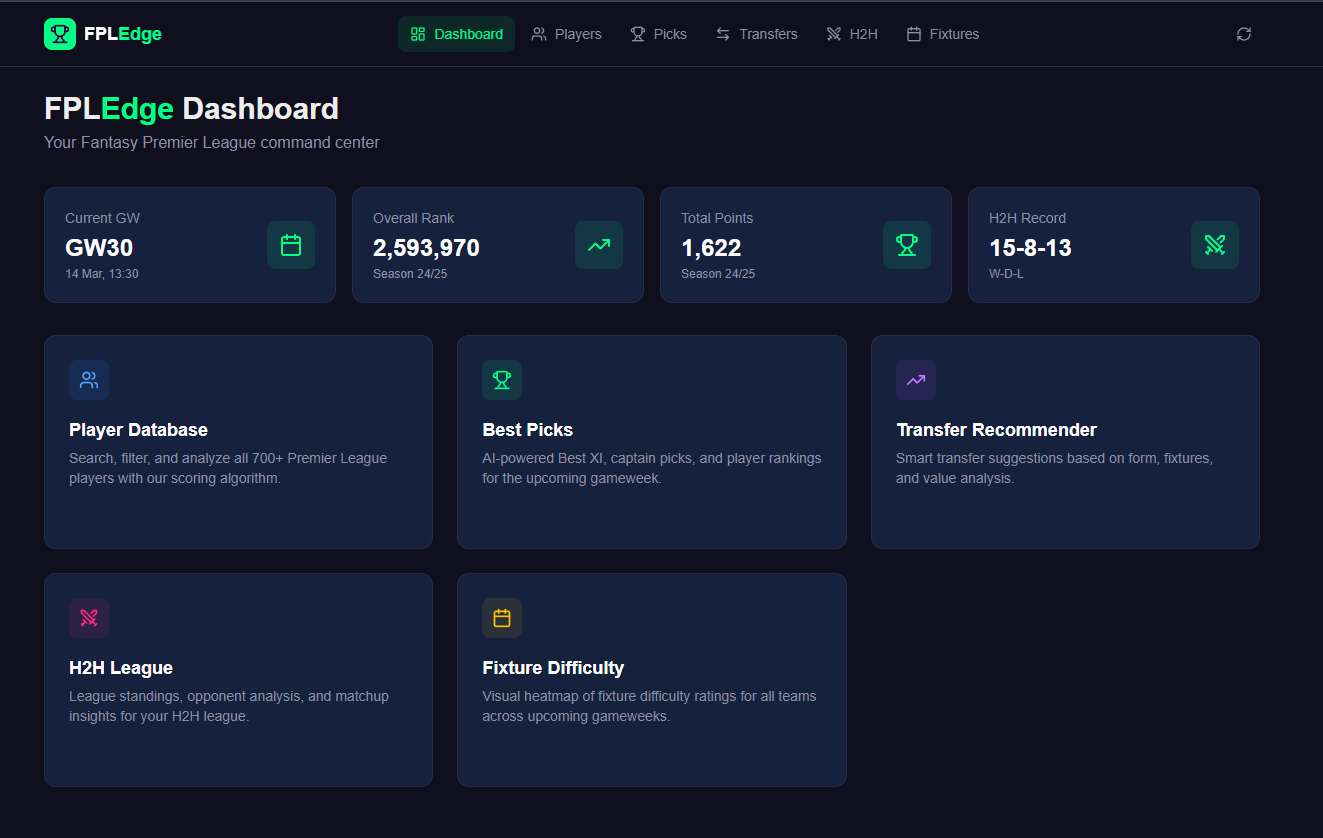
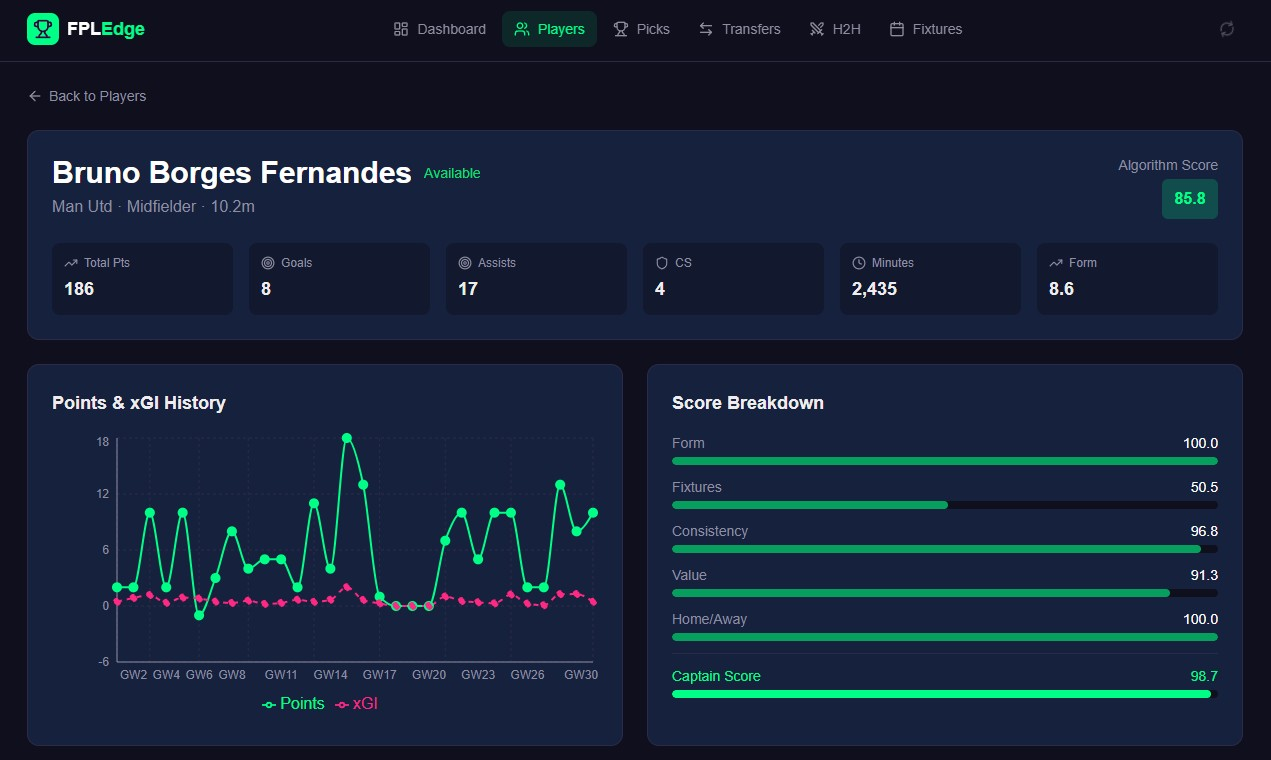
Content updates

diff --git a/pages/index.vue b/pages/index.vue
@@ -44,7 +44,7 @@
               </Button>
               <Button
                 variant="outline"
-                class="group border-border hover:bg-muted/50 font-body font-medium transition-all duration-300"
+                class="group border-border text-foreground hover:bg-muted/50 hover:text-foreground font-body font-medium transition-all duration-300"
                 as-child
               >
                 <NuxtLink to="/contact" class="flex items-center">
@@ -185,7 +185,7 @@
         <div class="flex justify-center mt-14">
           <Button
             variant="outline"
-            class="group border-border hover:bg-muted/50 font-body font-medium transition-all duration-300"
+            class="group border-border text-foreground hover:bg-muted/50 hover:text-foreground font-body font-medium transition-all duration-300"
             as-child
           >
             <NuxtLink to="/projects" class="flex items-center">
@@ -371,16 +371,6 @@ const featuredProjects = [
   },
   {
     id: 2,
-    title: 'Weatheroo',
-    description:
-      'A modern weather dashboard built with Nuxt 3 featuring interactive maps, geolocation services, real-time animations, and Redis-powered caching',
-    image: '/images/weatheroo.jpg',
-    tags: ['Nuxt 3', 'Tailwind', 'Redis', 'OpenWeather API'],
-    link: 'https://github.com/Vasilis-Rousis/weatheroo',
-    siteLink: 'https://weatheroo-three.vercel.app/',
-  },
-  {
-    id: 3,
     title: 'FPL Edge',
     description:
       'Fantasy Premier League analytics dashboard with algorithm-based player scoring, H2H insights, and transfer recommendations',
@@ -389,24 +379,34 @@ const featuredProjects = [
     link: 'https://github.com/Vasilis-Rousis/fpl-app',
     siteLink: 'https://fpl-app-five.vercel.app/',
   },
+  {
+    id: 3,
+    title: 'Weatheroo',
+    description:
+      'A modern weather dashboard built with Nuxt 3 featuring interactive maps, geolocation services, real-time animations, and Redis-powered caching',
+    image: '/images/weatheroo.jpg',
+    tags: ['Nuxt 3', 'Tailwind', 'Redis', 'OpenWeather API'],
+    link: 'https://github.com/Vasilis-Rousis/weatheroo',
+    siteLink: 'https://weatheroo-three.vercel.app/',
+  },
 ]
 
 // Skills with Icons
 const skillsWithIcons = [
-  { name: 'Vue.js', icon: 'lucide:code' },
+  { name: 'React', icon: 'lucide:code' },
   { name: 'Nuxt.js', icon: 'lucide:box' },
-  { name: 'JavaScript', icon: 'lucide:file-code' },
+  { name: 'Vue.js', icon: 'lucide:file-code' },
   { name: 'TypeScript', icon: 'lucide:file-type' },
   { name: 'Tailwind CSS', icon: 'lucide:palette' },
   { name: 'UI/UX Design', icon: 'lucide:layout' },
-  { name: 'Responsive Design', icon: 'lucide:smartphone' },
-  { name: 'API Integration', icon: 'lucide:database' },
+  { name: 'Redis', icon: 'lucide:server' },
+  { name: 'PostgreSQL', icon: 'lucide:database' },
 ]
 
 // Additional Skills
 const additionalSkills = [
-  'Confluence',
-  'CSS3',
+  'Docker',
+  'Prisma',
   'Git',
   'RESTful APIs',
   'Node.js',
@@ -414,7 +414,9 @@ const additionalSkills = [
   'Figma',
   'Adobe Experience Manager',
   'Jira',
+  'Confluence',
   'Performance Optimization',
+  'Claude',
 ]
 
 // Certifications Data

diff --git a/pages/projects.vue b/pages/projects.vue
@@ -187,7 +187,7 @@ const projects = [
     id: 1,
     title: 'JobTracker',
     description:
-      'A full-stack job application tracking app built with React, Node.js, and PostgreSQL. It allows users to manage their job applications, track progress, and stay organized throughout their job search.',
+      'Full-stack job application tracking app. It allows users to manage their job applications and stay organized throughout their job search.',
     image: '/images/job-tracker.jpg',
     tags: ['React', 'Node.js', 'PostgreSQL'],
     link: 'https://github.com/Vasilis-Rousis/track-job',
@@ -238,7 +238,8 @@ const projects = [
   {
     id: 5,
     title: 'WonderGuide',
-    description: 'A Virtual travel guide using ChatGPT API to suggest amazing travel itineraries',
+    description:
+      'Virtual travel guide with clean and modern design using ChatGPT API to suggest amazing travel itineraries',
     image: '/images/wonderguide.jpg',
     tags: ['Nuxt 3', 'Supabase', 'ChatGPT API'],
     link: 'https://github.com/Vasilis-Rousis/wonderguide-app',
@@ -251,7 +252,7 @@ const projects = [
     id: 6,
     title: 'Posts App',
     description:
-      'A modern, containerized full-stack social media application featuring a React frontend and Node.js backend with authentication, CRUD operations, and real-time like functionality',
+      'Containerized full-stack social media application with authentication, CRUD operations, and real-time like functionality',
     image: '/images/posts-app.jpg',
     tags: ['React', 'Node.js', 'Express', 'PostgreSQL', 'Docker'],
     link: 'https://github.com/Vasilis-Rousis/posts-app',

diff --git a/pages/about.vue b/pages/about.vue
@@ -222,14 +222,14 @@
 defineOgImageComponent('NuxtSeo')
 
 const devSkills = [
+  'React / Next.js',
   'Vue.js / Nuxt.js',
   'JavaScript / TypeScript',
-  'HTML5 / CSS3',
   'Tailwind CSS',
-  'Responsive Design',
-  'RESTful APIs',
+  'Docker',
+  'PostgreSQL / Supabase',
   'Git / GitHub',
-  'Node.js',
+  'Node.js / Express',
 ]
 
 const functionalSkills = [
